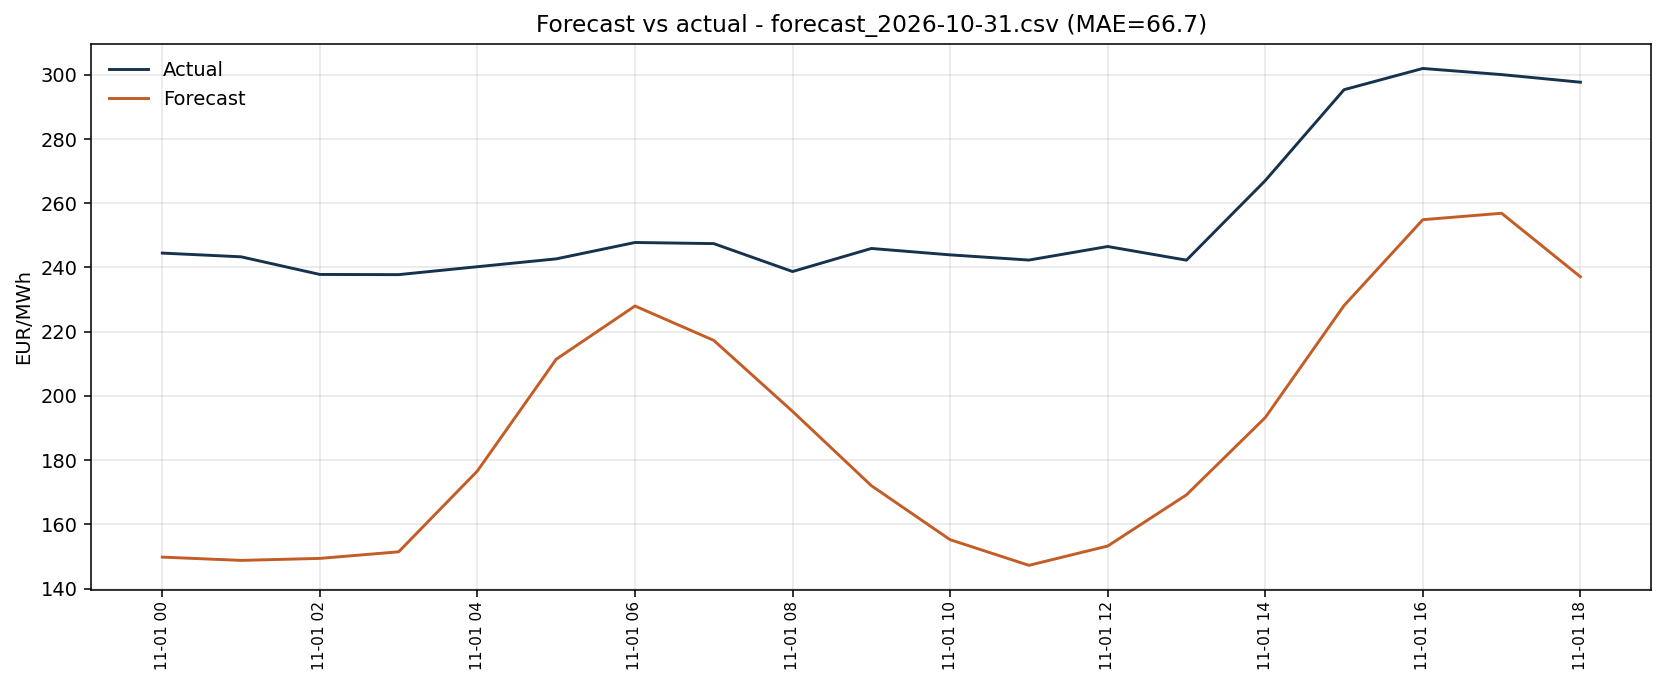
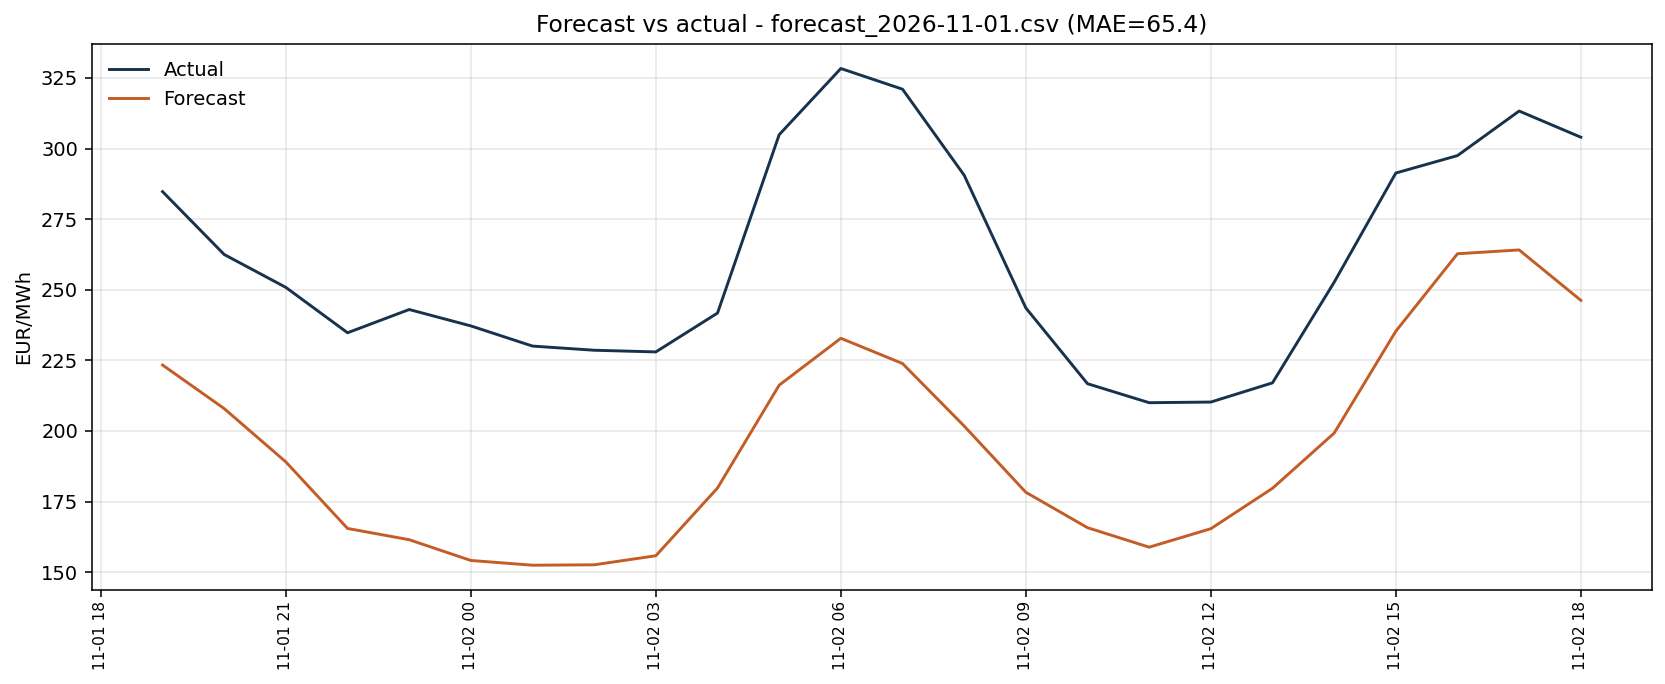
chore: daily forecast update

diff --git a/README.md b/README.md
@@ -195,9 +195,9 @@ Licence: MIT (code). Underlying market data remain subject to their original lic
 
 ## Live daily forecast
 
-**Generated (UTC):** 2026-11-01 18:44  
-**Based on data up to (UTC):** 2026-11-01 18:00  
-**Forecast horizon (UTC):** 2026-11-01 19:00 to 2026-11-02 18:00  
+**Generated (UTC):** 2026-11-02 22:56  
+**Based on data up to (UTC):** 2026-11-02 22:00  
+**Forecast horizon (UTC):** 2026-11-02 23:00 to 2026-11-03 22:00  
 **Protocol:** Conservative (external_shift = 24) + hourly bias correction
 
 ### Forecast chart
@@ -208,36 +208,37 @@ Licence: MIT (code). Underlying market data remain subject to their original lic
 
 | Hour (UTC) | Forecast (EUR/MWh) | Bias |
 |------------|--------------------|------|
-| 2026-11-01 19:00 | 223.35 | 0.00 |
-| 2026-11-01 20:00 | 207.91 | 0.00 |
-| 2026-11-01 21:00 | 189.02 | 0.00 |
-| 2026-11-01 22:00 | 165.47 | 0.00 |
-| 2026-11-01 23:00 | 161.48 | 0.00 |
-| 2026-11-02 00:00 | 154.13 | 0.00 |
-| 2026-11-02 01:00 | 152.45 | 0.00 |
-| 2026-11-02 02:00 | 152.60 | 0.00 |
-| 2026-11-02 03:00 | 155.80 | 0.00 |
-| 2026-11-02 04:00 | 179.80 | 0.00 |
-| 2026-11-02 05:00 | 216.22 | 0.00 |
-| 2026-11-02 06:00 | 232.81 | 0.00 |
-| 2026-11-02 07:00 | 223.88 | 0.00 |
-| 2026-11-02 08:00 | 201.73 | 0.00 |
-| 2026-11-02 09:00 | 178.28 | 0.00 |
-| 2026-11-02 10:00 | 165.74 | 0.00 |
-| 2026-11-02 11:00 | 158.84 | 0.00 |
-| 2026-11-02 12:00 | 165.38 | 0.00 |
-| 2026-11-02 13:00 | 179.69 | 0.00 |
-| 2026-11-02 14:00 | 199.23 | 0.00 |
-| 2026-11-02 15:00 | 235.32 | 0.00 |
-| 2026-11-02 16:00 | 262.75 | 0.00 |
-| 2026-11-02 17:00 | 264.10 | 0.00 |
-| 2026-11-02 18:00 | 246.25 | 0.00 |
+| 2026-11-02 23:00 | 165.43 | 0.00 |
+| 2026-11-03 00:00 | 248.32 | -88.86 |
+| 2026-11-03 01:00 | 243.58 | -86.06 |
+| 2026-11-03 02:00 | 239.63 | -82.19 |
+| 2026-11-03 03:00 | 238.68 | -79.24 |
+| 2026-11-03 04:00 | 248.02 | -62.76 |
+| 2026-11-03 05:00 | 282.37 | -59.97 |
+| 2026-11-03 06:00 | 299.00 | -57.66 |
+| 2026-11-03 07:00 | 295.38 | -63.63 |
+| 2026-11-03 08:00 | 275.31 | -66.18 |
+| 2026-11-03 09:00 | 254.96 | -69.56 |
+| 2026-11-03 10:00 | 241.97 | -69.83 |
+| 2026-11-03 11:00 | 238.95 | -73.10 |
+| 2026-11-03 12:00 | 239.40 | -69.05 |
+| 2026-11-03 13:00 | 240.61 | -55.20 |
+| 2026-11-03 14:00 | 270.17 | -63.60 |
+| 2026-11-03 15:00 | 302.10 | -61.61 |
+| 2026-11-03 16:00 | 307.38 | -40.92 |
+| 2026-11-03 17:00 | 316.76 | -46.18 |
+| 2026-11-03 18:00 | 310.59 | -59.17 |
+| 2026-11-03 19:00 | 231.76 | 0.00 |
+| 2026-11-03 20:00 | 215.42 | 0.00 |
+| 2026-11-03 21:00 | 197.19 | 0.00 |
+| 2026-11-03 22:00 | 172.99 | 0.00 |
 
 ### Previous forecasts vs realized prices
 
 | Forecast file | Hours scored | MAE | RMSE |
 |---------------|--------------|-----|------|
-| `forecast_2026-10-31.csv` | 19 | 66.73 | 70.88 |
+| `forecast_2026-10-31.csv` | 24 | 67.09 | 70.49 |
+| `forecast_2026-11-01.csv` | 24 | 65.43 | 67.68 |
 
 ![Forecast vs actual](outputs/figures/latest_vs_actual.png)
 
